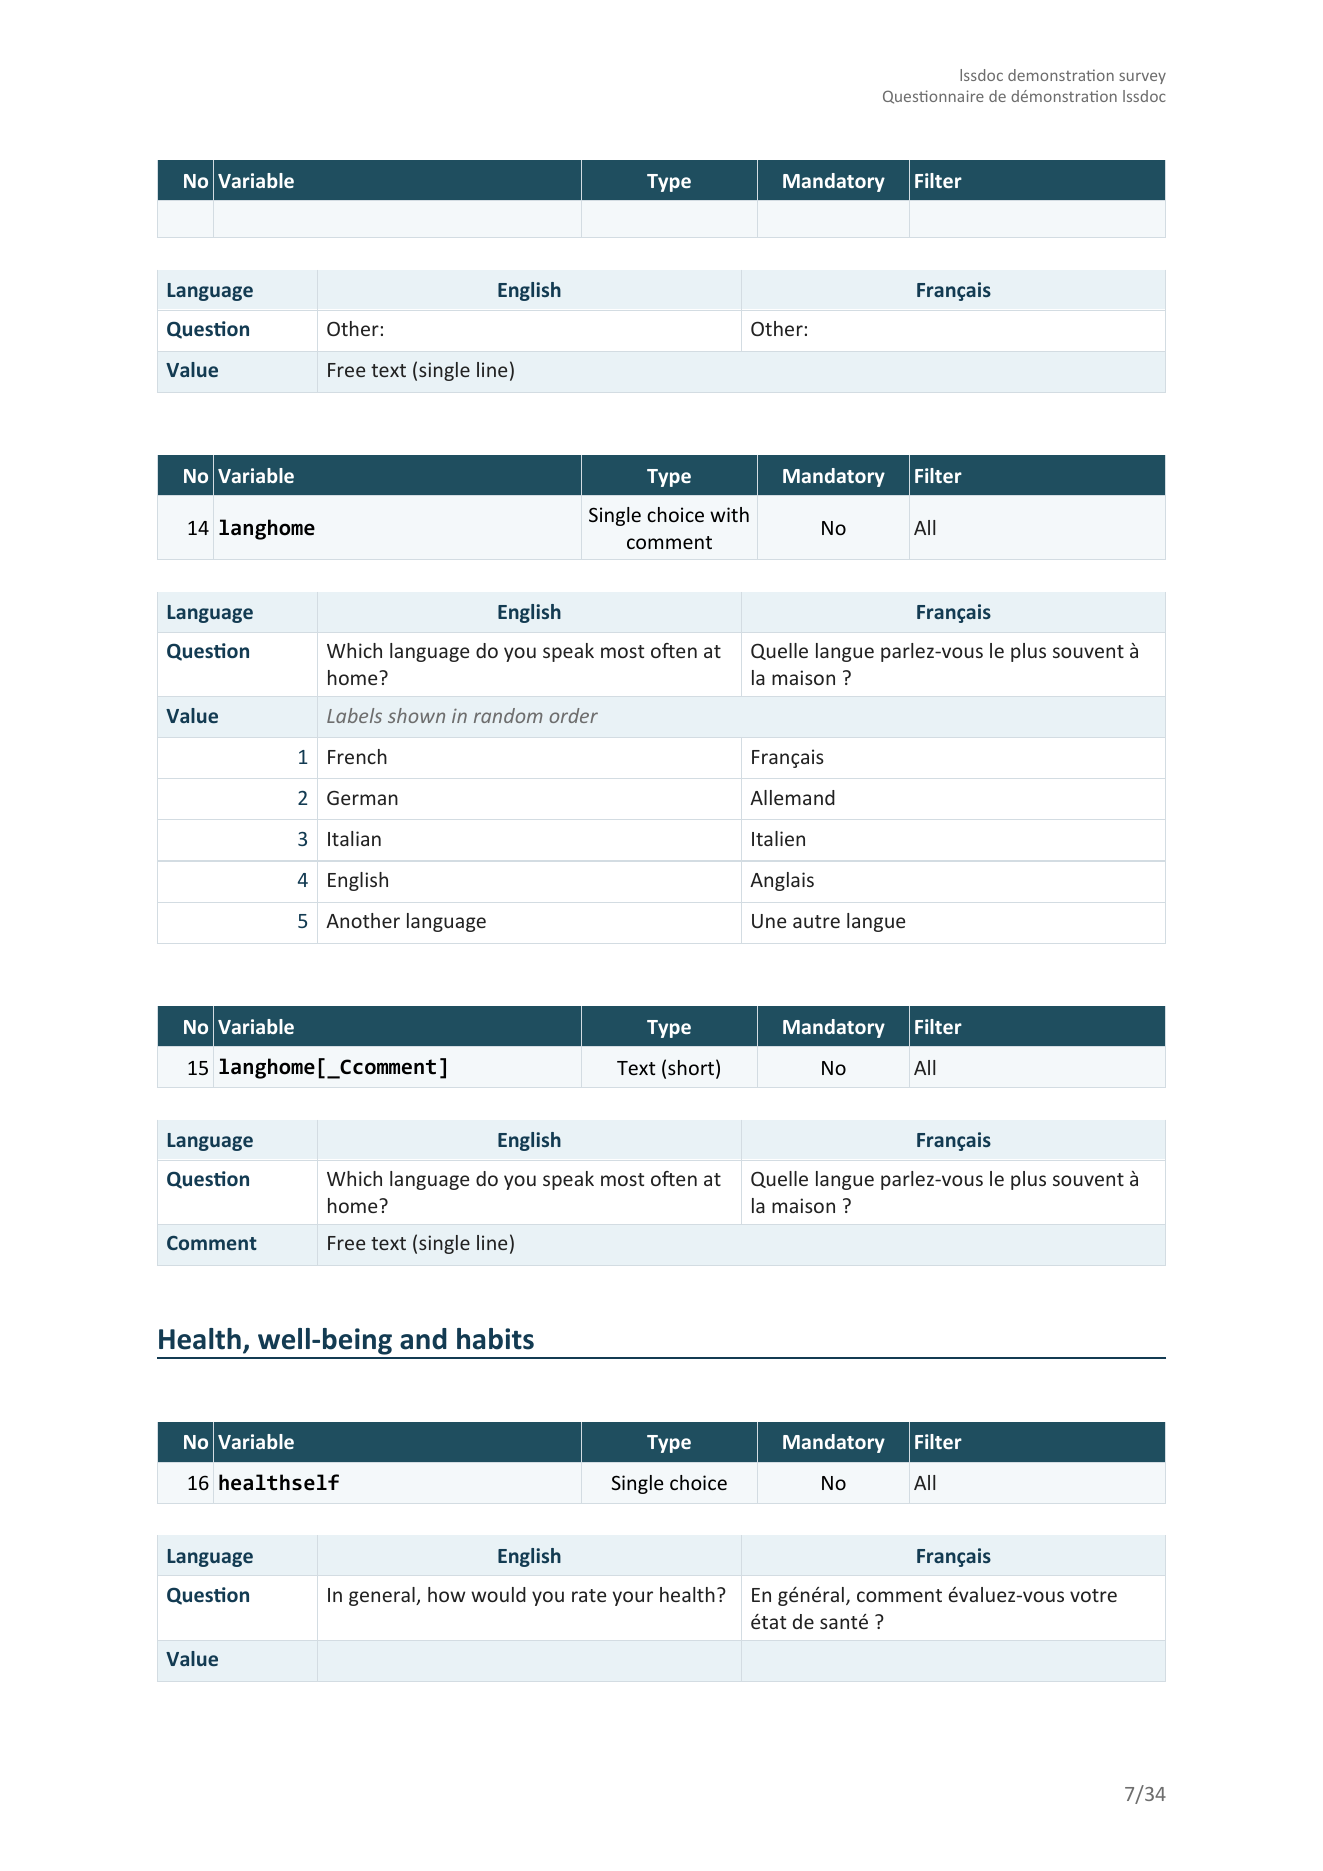
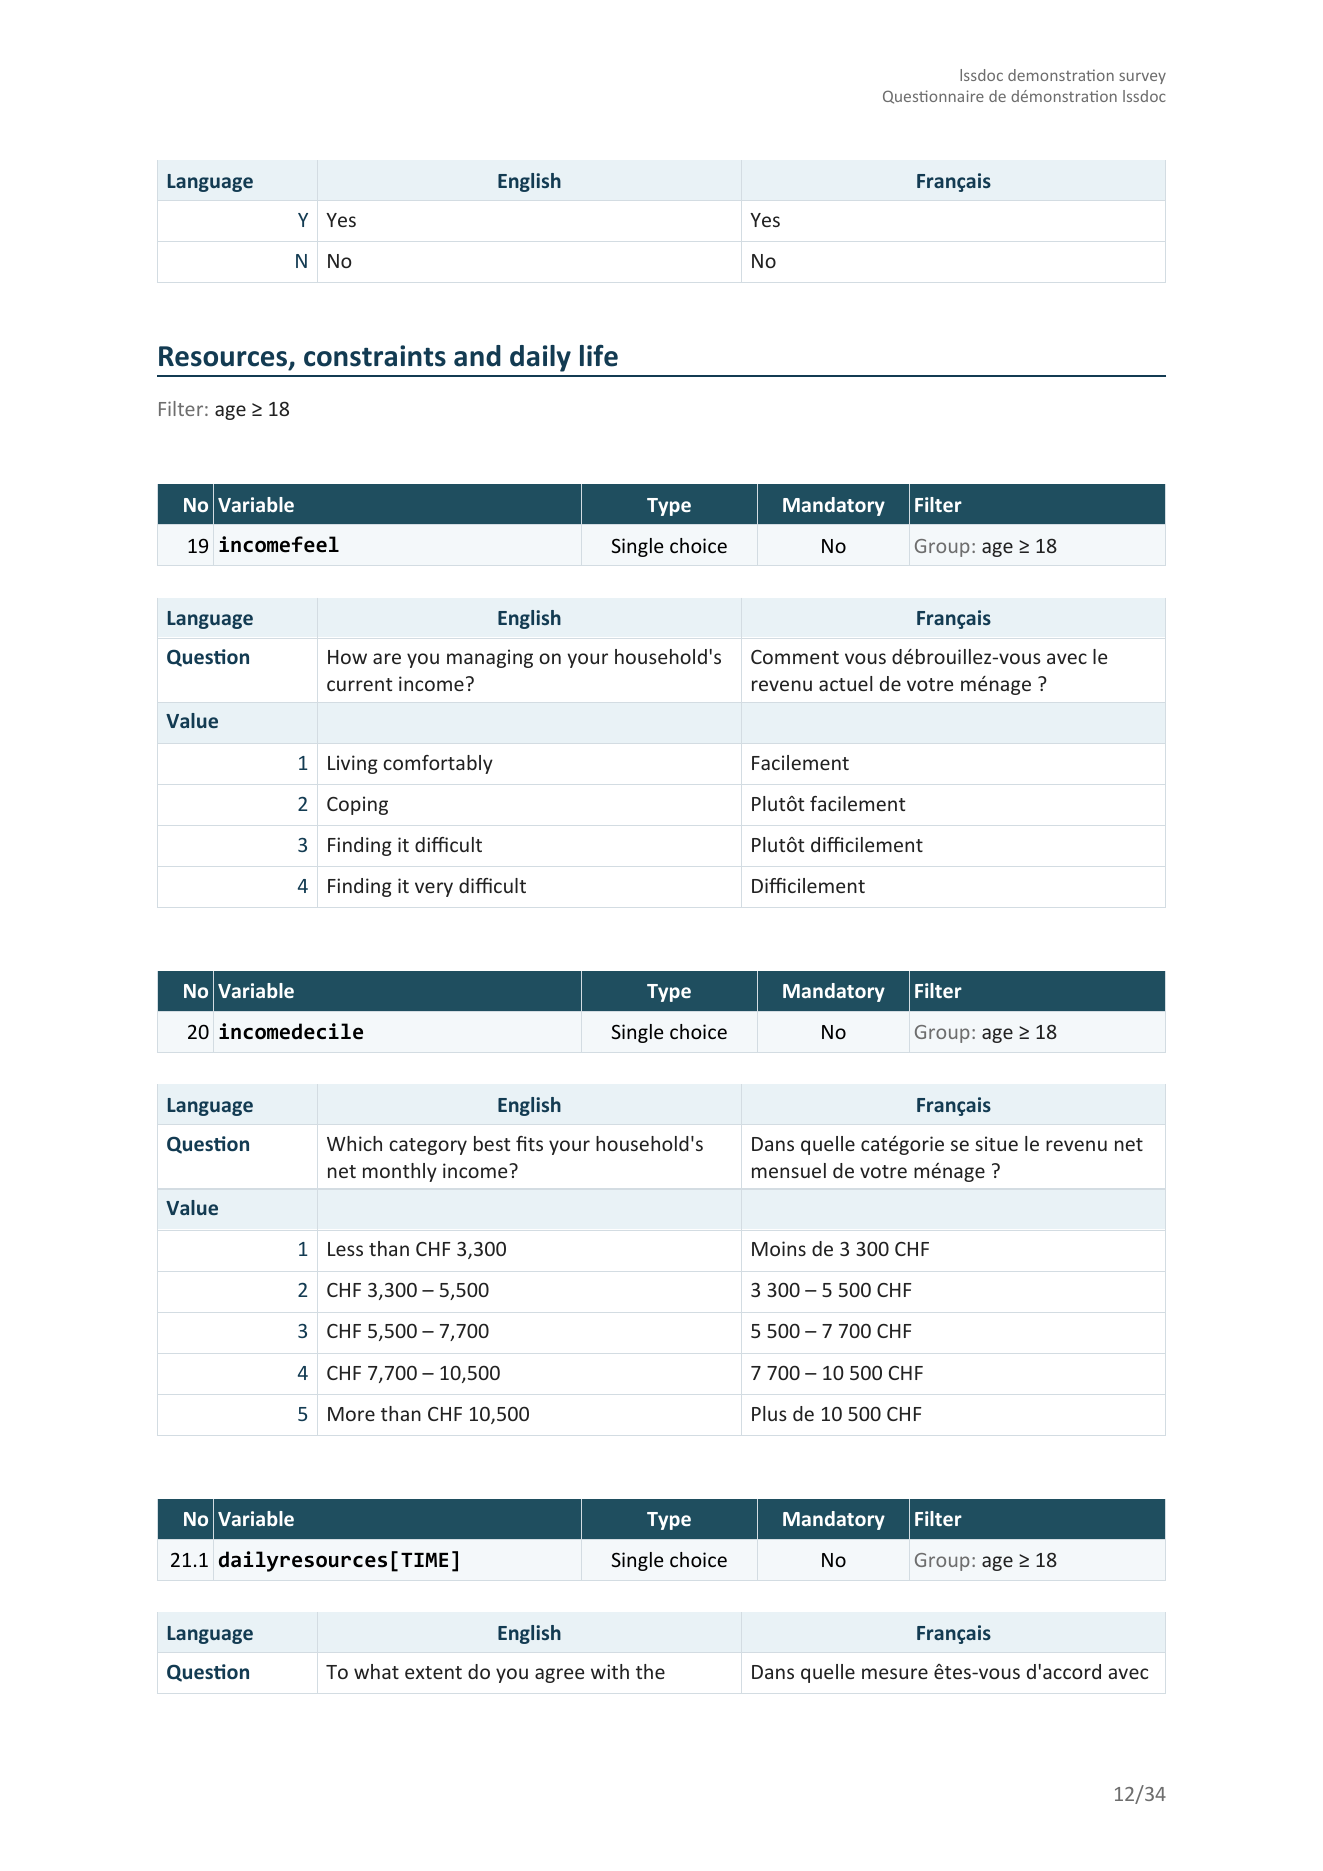
docs: refresh the figures of the two documentation layouts
Both figures showed pages rendered before 0.4: the old card numbers, no
formula under a computed question, no condition on a group. They are
rendered again from the demo survey, page 12 of the cards layout and
page 5 of the table layout, and their alt texts follow.

Changed region(s): [[0.093, 0.062, 0.8987, 0.899], [0.7128, 0.155, 0.7438, 0.186]]

diff --git a/README.md b/README.md
@@ -42,7 +42,7 @@ templates:
   table), stacked vertically. Closest to the printed questionnaire a
   respondent would see.
 
-  <img src="man/figures/template_cards.png" alt="Cards layout: one card per question stacked vertically, English and French side by side -- a free-text Other field, a single-choice-with-comment question showing its labelled answer scale and paired comment row, then a new section heading and the next single-choice question" width="100%" />
+  <img src="man/figures/template_cards.png" alt="Cards layout: one card per question stacked vertically, English and French side by side -- the end of a yes/no question, a group heading with the condition set on the group, then two single-choice questions with their answer options; the Filter cell of each card repeats that condition" width="100%" />
 
 - **`"table"`** – one dense table covering the whole document: every
   variable is one tinted *Question* row carrying its metadata, followed
@@ -52,7 +52,7 @@ templates:
   labelled rows of the same table so the document reads as a single
   artifact.
 
-  <img src="man/figures/template_table.png" alt="Table layout: one variable per row with English and French columns -- a yes/no single choice, two Number variables, a computed variable, a display item, a multiple-choice question expanded into one row per option with its free-text Other, and a single-choice answer scale; the column header repeats automatically at the top of each new page" width="100%" />
+  <img src="man/figures/template_table.png" alt="Table layout: one variable per row with English and French columns -- a yes/no single choice, two Number variables, a computed variable with its formula, a display item, a multiple-choice question expanded into one numbered row per option with its free-text Other, and a single-choice answer scale; the column header repeats automatically at the top of each new page" width="100%" />
 
 lssdoc also works the other way around. Write a questionnaire in a Word
 form, or describe it in R, and lssdoc writes the `.lss` file you import
